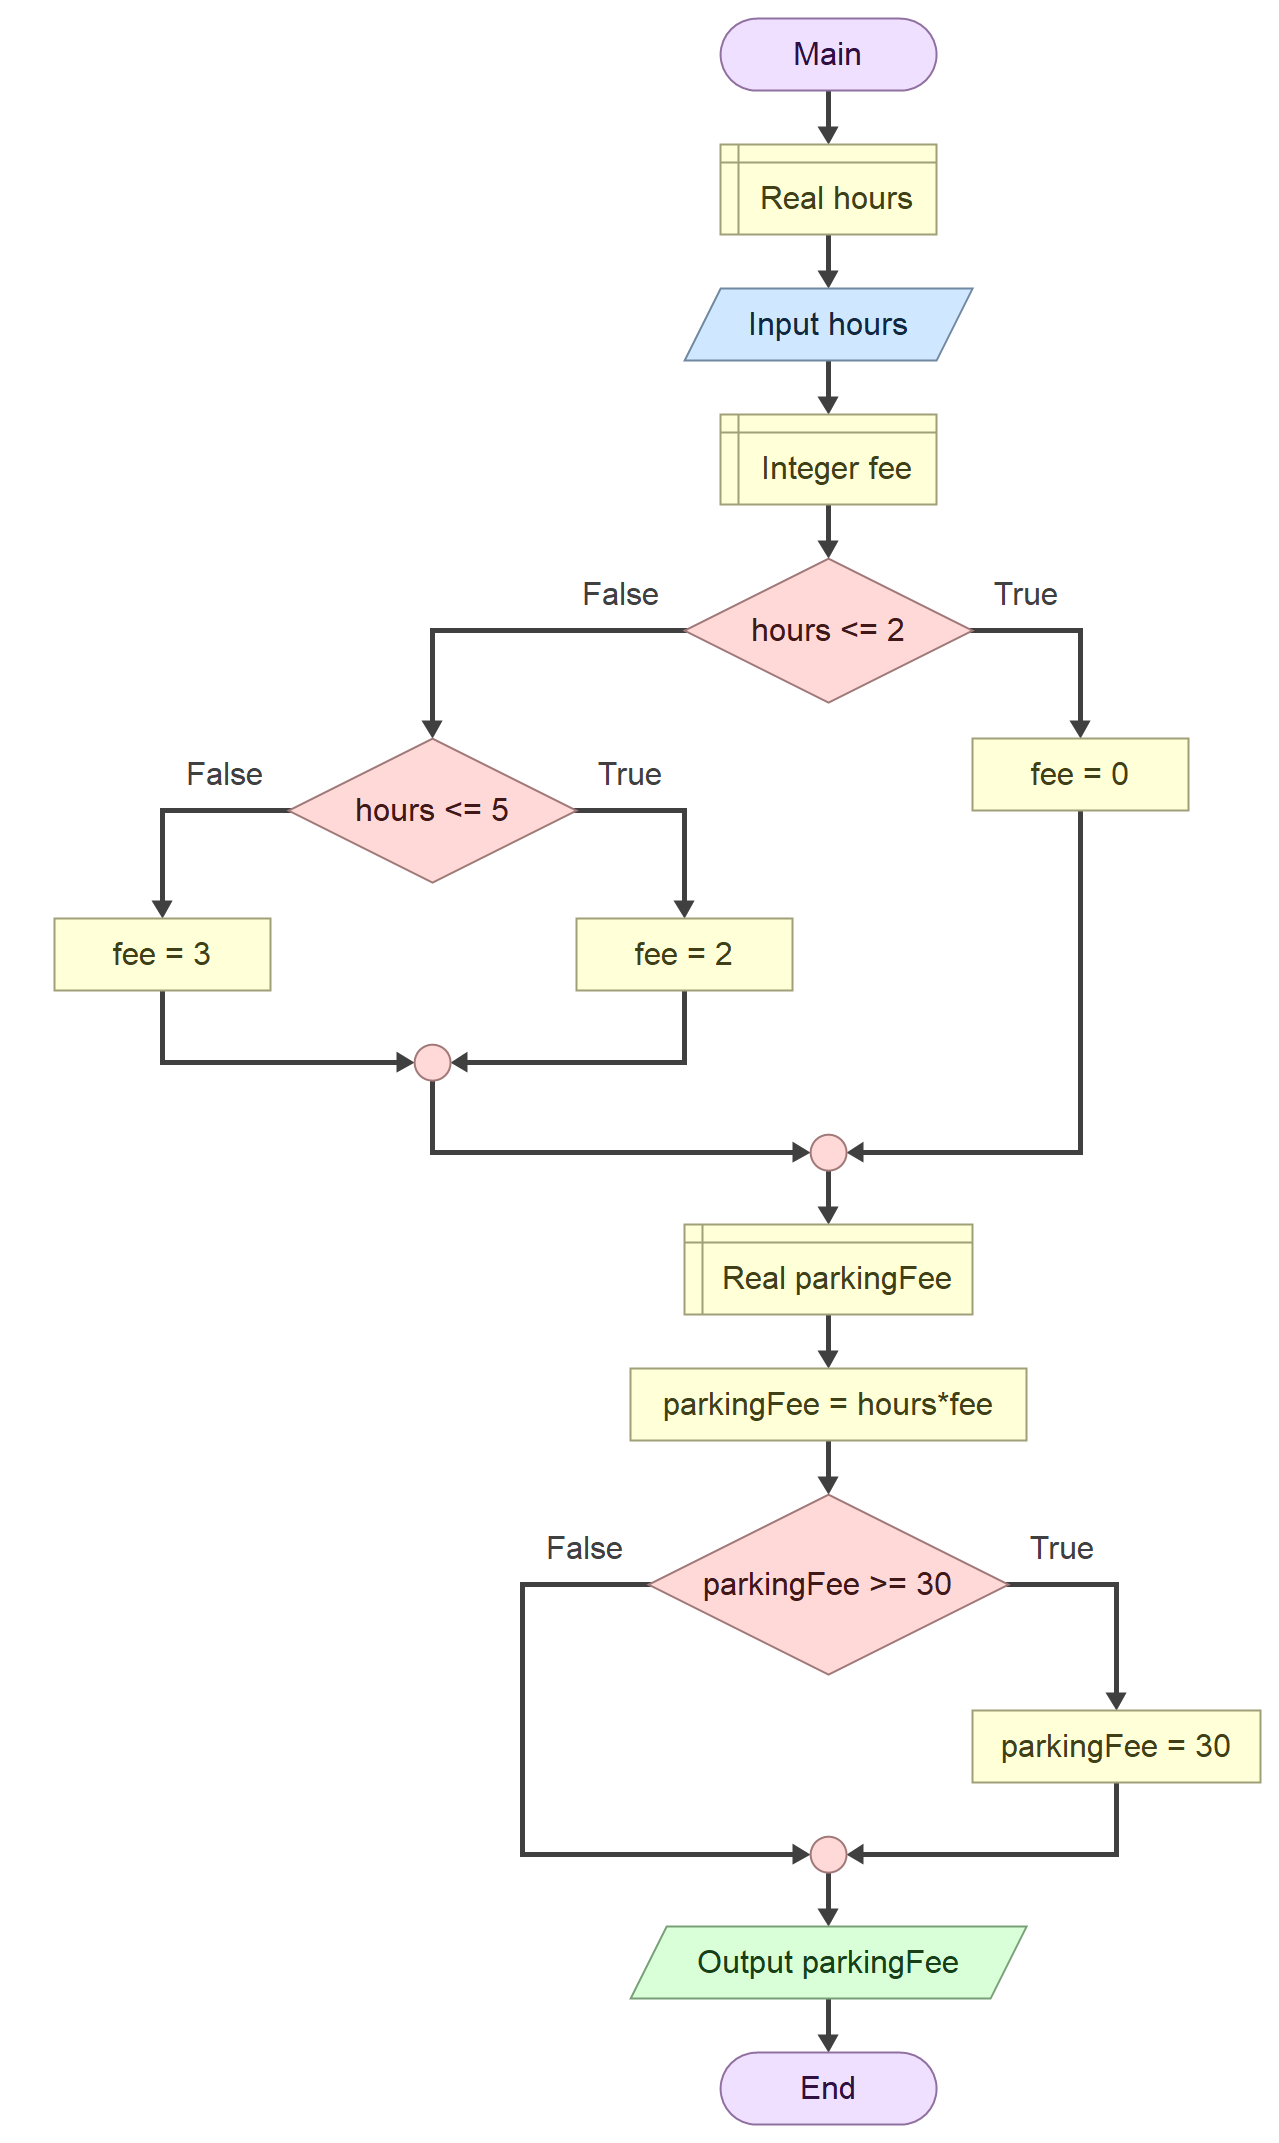
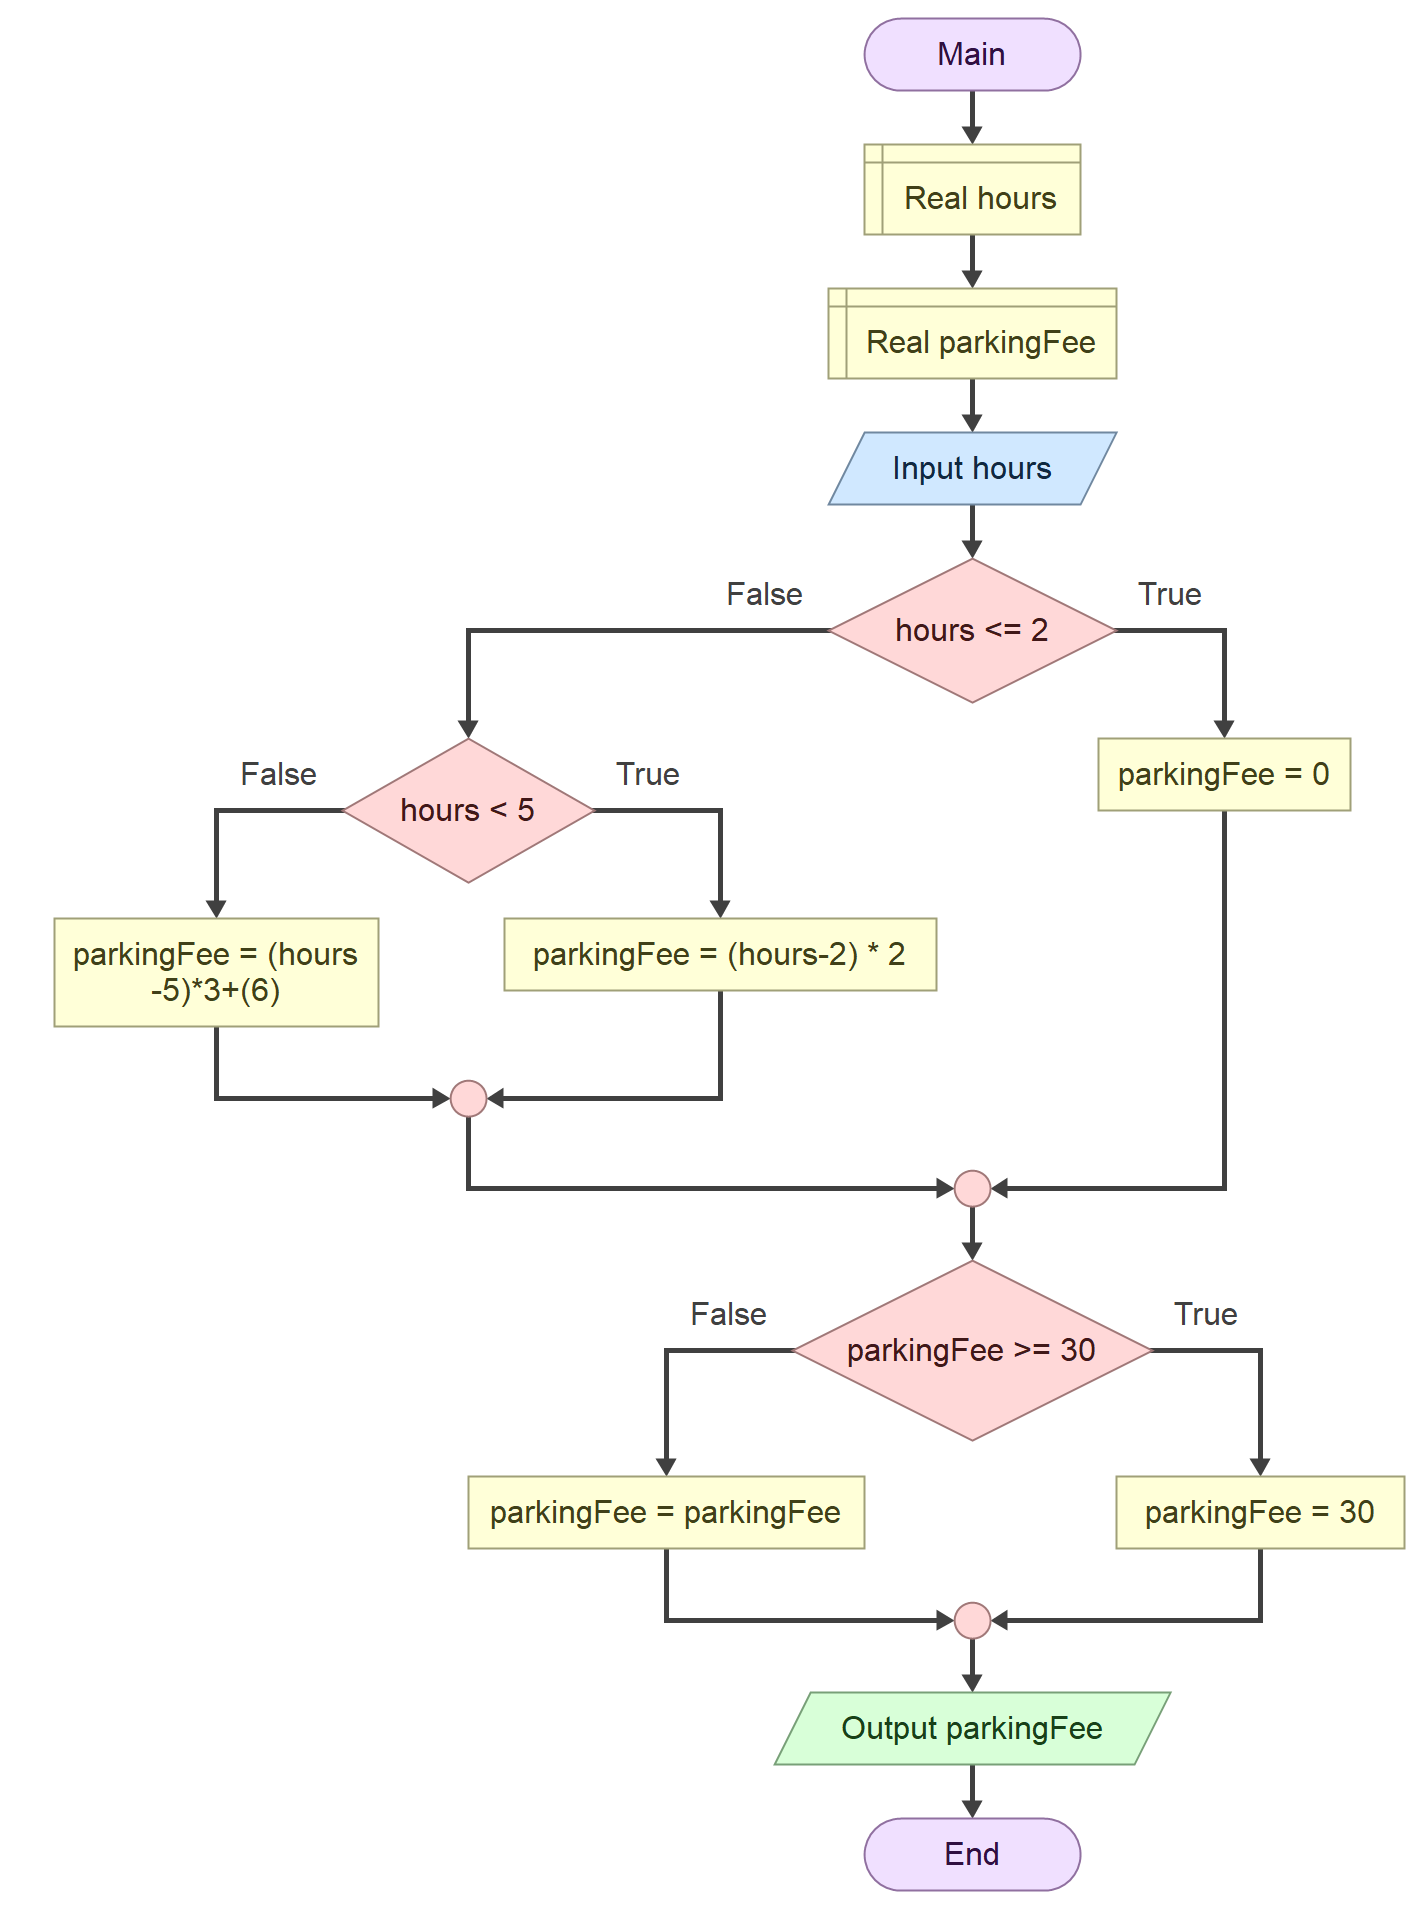
exercise 3 lab 4

Changed region(s): [[0.0305, 0.0, 1.0, 1.0]]

diff --git a/labs/lab04/exercise3/lab-4-3.py b/labs/lab04/exercise3/lab-4-3.py
@@ -1,12 +1,13 @@
 hours = float(input())
 if hours <= 2:
-    fee = 0
+    parkingFee = 0
 else:
-    if hours <= 5:
-        fee = 2
+    if hours < 5:
+        parkingFee = (hours - 2) * 2
     else:
-        fee = 3
-parkingFee = hours * fee
+        parkingFee = (hours - 5) * 3 + 6
 if parkingFee >= 30:
     parkingFee = 30
+else:
+    parkingFee = parkingFee
 print(parkingFee)